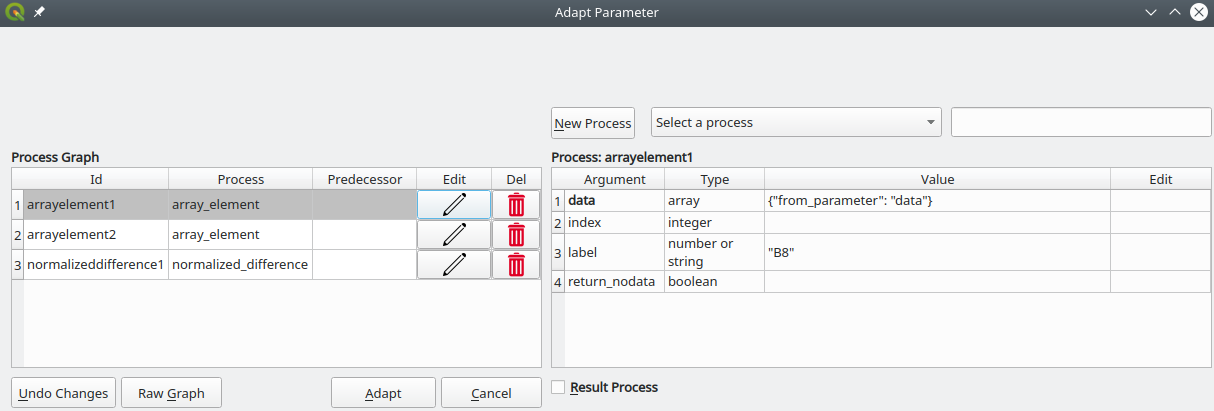
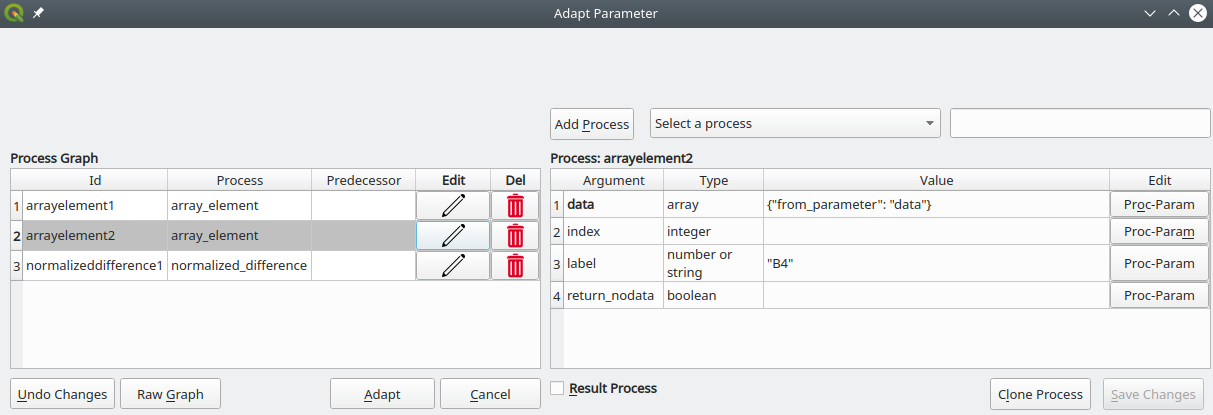
updated QGIS plugin how to for version 0.9.1

diff --git a/documentation/1.0/getting-started/qgis-plugin.md b/documentation/1.0/getting-started/qgis-plugin.md
@@ -1,23 +1,26 @@
 # QGIS Plugin
 
+The openEO QGIS plugin enables exploring openEO backends as well as execute and modify your jobs at an backend 
+within QGIS. The plugin can load the results of a job execution to the QGIS map, so that the user can make further 
+analyses and visualisation steps. 
+
 ## Installation
 
 There are two different versions of the QGIS Plugin available:
  
-1. For getting the **latest stable version**, you can use the plugin 
+1. The **latest stable version** is accessible in the plugin 
 manager of QGIS (Plugins -> Manage and Install Plugins). Note that you have to activate the option to show experimental 
 plugins (Settings -> Show also experimental plugins). After that, you can search for 
 "OpenEO", install and activate the plugin.
-2. For getting the **latest version**, you can go to the official
-[GitHub repository](https://github.com/Open-EO/openeo-qgis-plugin) and download the repository as a zip archive. 
+2. The **latest version** is accessible at the 
+[GitHub repository](https://github.com/Open-EO/openeo-qgis-plugin). First, download the repository as zip archive. 
 Now, open the plugin manager of QGIS (Plugins -> Manage and Install Plugins) and select "Install from ZIP". 
-There you can browse for the downloaded zip archive, install and activate it.   
+There you can browse for the downloaded zip archive, install and activate it.
 
-This tutorial shows the capabilities of version 0.9. Make sure you have installed at least version 0.9 by checking it in 
+This tutorial shows the capabilities of version 0.9.1. Make sure you have installed at least that version by checking in 
 the plugin manager.   
 
-After successfully finishing the installation and activation of the plugin, there should appear the openEO logo in the 
-QGIS toolbar:
+After successfully installing and activating the plugin, the openEO logo should be part of the toolbar:
 
 ![QGIS Plugin Icon](./images/qgis_button.png "Button to start the plugin")
 
@@ -25,18 +28,20 @@ Simply click on the icon to start the plugin.
 
 ## Connecting
 
-When starting the plugin, a login dialog appears. The backend dropdown menu lists the available openEO backends from 
+The first window you see when starting the plugin is a login dialog, since you can only access your jobs at the backend 
+if you are authenticated. The backend dropdown menu contains the available openEO backends from 
 the [openEO Hub](https://hub.openeo.org/). By default, the plugin chooses the latest compatible version from the 
 selected provider. If you want to connect to a specific version of a backend, you need to uncheck 
-the checkbox labeled "Only Latest versions". It is also possible to manually type a backend url into the selection 
-field, in case it is not registered at the hub yet.
+the checkbox labeled "Only Latest versions". You can also manually type a backend url into the selection 
+field, in case it is not registered at our hub yet.
  
 ![QGIS Login Dialog](./images/login_dialog.png "Login Dialog")
 
-Now that you chose your backend, you can log in with your username and password provided by the backend.
+Now that you have chosen a backend, you can log in with your username and password provided by the backend.
 Note that the QGIS plugin only supports Basic authentication and not [OpenID Connect](https://openid.net/connect/) yet. 
+Backends that do not support this authentication can not be accessed via this plugin at the moment.
 
-If logged in successfully, the main window of the plugin appears with three tabs ("Backend Info", "Jobs", "Services"). 
+If logged in successfully, the main window of the plugin appears with three tabs (**Backend Info**, **Jobs**, **Services**). 
 The following sections will go through the capabilities of these tabs. 
 
 ## Tab1: Backend Info
@@ -47,128 +52,139 @@ Next, you can choose a collection in the drop down menu to see a description of 
 
 ![QGIS Backend Info](./images/backend_info.png "Backend Info tab")
 
-On the bottom, there is a drop down menu to choose one of the available processes from the backend. 
-After selection, the parameters of the process are shown in the table below. The first column contains the 
-parameter name. The parameter name is bold if required and otherwise optional when using the process.
-Second column shows the type of the parameter and the third column a short description. 
+On the bottom, you can use the drop down menu to choose one of the available processes from the backend. 
+After selection, the parameter of the process are listed in the table below. The first column contains the 
+parameter name. The parameter name is bold if required and otherwise optional.
+Second column shows the type of the parameter (e.g. raster-cube) and the third column a short description. 
 To learn more about the process, you can click on the info button next to the drop down menu 
-(marked red in the figure below). The return type of the process is written next to the info box.
+(marked red in the figure below). The return type of the process is written next to the info box. If you want to get a
+good overview of all processes of openEO you might visit the 
+[official processes page](https://openeo.org/documentation/1.0/processes.html), but note that not all backends 
+will implement all processes listed there.
 
 ## Tab2: Jobs
 
 The "Jobs" tab lists all of your [jobs](https://openeo.org/documentation/1.0/glossary.html#data-processing-modes) 
 at the backend. In openEO a job describes what the backend needs to process 
-(e.g. defining a [process graph](https://openeo.org/documentation/1.0/glossary.html#processes)) as well as 
-additional information. The first two columns shows the title and the date and time it got created at the backend. 
-The other elements of this window are numbered at the screenshot below and described in the following list: 
+(e.g. by defining a [process graph](https://openeo.org/documentation/1.0/glossary.html#processes)) as well as 
+additional meta-information (e.g. title, creation date). The first two columns show the title and the creation date of 
+the job. The other elements of the table are numbered in the screenshot and described in the following. 
 
 ![QGIS Jobs](./images/jobs.png "Jobs tab")
 
-1. **Status** - Shows in which lifecycle state the job is in at the moment. The first status is "created", 
-if the job got just sent to the backend, but not executed yet. After the job gets executed it will be 
+1. **Status** - Shows the current lifecycle state of the job. The first status of a job is "created", 
+if it got created at the backend, but not executed yet. After the job gets executed it will be 
 "queued" if the backend plans to executes it, but has not started yet. If the execution started but hasn't finished yet, 
 it has the status of "running". Last but not least it will have either "canceled", if it was stopped during execution, 
 "finished" if the execution was successfully or "error", if an error occurred during execution.    
-2. **Execute** - By clicking on the "Play" button, the plugin will notify the backend to execute the job. 
-Already finished jobs will be executed again.
+2. **Execute** - By clicking on the "Play" button, the plugin will start the execution of the job at the backend. 
+Already finished jobs are executed again.
 3. **Display** - By clicking on the "Eye" button, the plugin downloads the resulting image of the job from the backend 
 and creates a new layer in QGIS named after the title and the creation date containing the image. Note that if the result 
 is not geo referenced, you might get a dialog from QGIS to choose a coordinate reference system.
 4. **Adapt** - By clicking on the "Pencil" button a new dialog appears, where you can adapt the job title and 
 description as well as the processes and extent of the job. How this works in detail is described in the following sections.
-5. **Information** - By clicking on the "Info" button a window with additional information on the job opens up, like a 
-description, a cost plan etc., if this information is provided by the backend.
+5. **Information** - By clicking on the "Info" button a window with additional information about the job appears.
+It contains information like a description, a cost plan etc., of course only if this information is provided by the backend.
 6. **Delete** - By clicking on the "Trash" button the job gets deleted from the backend, after being asked if you are 
-really sure to do that.
-7. **Load Job from openEO Hub** - This button opens a new window with a list of shared jobs from the openEO Hub 
+really sure about it.
+7. **Load Job from openEO Hub** - This button opens a new window with a list of shared jobs (or process graphs) from the openEO Hub 
 (see figure below). You can select one of these jobs, adapt them to your needs and create a new "duplicate" job at 
-your backend. More information on that workflow can be found in the next sections.    
+your backend. More information on how to do that can be found in the next sections.
+    
 ![QGIS openEO Hub](./images/openeohub.png "openEO Hub")
+
 8. **Create new Job** - Similar to loading a job from the Hub, you can also create a job from scratch using this button. 
 More information in the next sections.  
 9. **Create new Job in Web Editor** - This button opens the [openEO web editor](https://editor.openeo.org/) in your 
-system browser, so you can create a new job from there. This is the recommended way on creating a new job, since it has 
-a graphical and therefore more convenient way of creating a job. 
+system browser, so that you can create a new job using it. This is the recommended way for creating a new job, since it has 
+a graphical and therefore more convenient way of doing so. 
 10. **Refresh Table** - This button refreshes the list of jobs manually.
 
 ### Creating new Jobs
 
-There are four ways to create a new job using this plugin, depending on whether you want to start from scratch or just 
+There are four approaches to create a new job using this plugin, depending on whether you want to start from scratch or just 
 change existing jobs:
 
 * **From scratch with web editor** - As described in the job table overview above, there is a button (no. 9) that opens 
 your web browser with the [openEO web editor](https://editor.openeo.org/). It is the recommended way to create a new job 
 from scratch, since it has a very convenient graphical user interface. It also shows the process graph in a neat graph 
 based manner for a better understanding of how processes are connected.
-* **From scratch with QGIS** - If you are happy only using the QGIS plugin, you can create a new job using the 
-button (no. 8) of the job overview dialog. It opens the job adaption window (more details in the sections below). 
+* **From scratch with QGIS** - If you want to use the QGIS plugin, you can create a new job using the 
+button (no. 8) of the job overview dialog. It opens the job adaption window (more details in the section below). 
 In the beginning the job has already a "load_collection" process as a starting point.  
-* **From openEO Hub** - If you do want to create a new job by adapting an existing one, you can choose one from the 
-openEO Hub. The hub has a feature to share existing process graphs, which can be loaded by choosing it in a new pop 
-up dialog. Ater selecting a job and showing the process graph, the job adaption window will pop up, where you are able 
-to configure the hub job to your needs.
+* **From openEO Hub** - If you want to create a new job by adapting an existing one, one possibility is to choose one 
+from the openEO Hub. The hub has the feature to share existing process graphs, which are listed in the pop up window, so 
+that you can select one. After job selection, the job adaption window will pop up, where you are able 
+to configure the hub job to your needs (see next section).
 * **From existing Job** - Similar to loading a process graph from the openEO Hub, you can create a new job by adapting 
-one of your previously created jobs at the backend. You can e.g. create a new job with a different spatial extent, or 
-adding a few processes. To do so you need to click on the edit button in the job overview window (no. 4)
+one of your existing jobs at the backend. You can e.g. create a new job with a different spatial extent, or 
+adding a few processes to the original one. To do so, you need to click on the edit button in the job overview window (no. 4)
 
 ### Adapting existing Jobs
 
-In this section you get an overview of the job adaption dialog and how you can create new jobs either by changing 
-existing ones or by creating new ones.
+In this section you'll get an overview of the job adaption workflow using the job adaption window. 
+How you get there was described in the previous section.
 
 ![QGIS Adapting Job](./images/adapt_job.png "Adapting job window")
 
-1. **Job Title** - Here you can put in your title of the job, it should be a name that makes you identify the job in a 
-list.
-2. **Job Description** - You can describe the job in more detail in this field. 
-3. **Process Graph Table** - In the process graph table you can see the list of all processes executed by the job. 
+1. **Job Title** - Here you can write the title of the job. It is recommended to choose it in a way that 
+makes you identify the job in a list more easily.
+2. **Job Description** - You can describe the job in more detail in this field (e.g. what is calculated and how). 
+3. **Process Graph Table** - In the process graph table you can see a list of all processes used by the job. 
 The first column contains the identifier of the process node, so a unique identifier of the process throughout the 
-whole process graph (e.g. loadcollection1). Most openEO clients generate these identifiers automatically. 
+whole process graph (e.g. loadcollection1). Most openEO clients generate these identifiers automatically. We define a 
+process node (or just node) as one element of the process graph, so one executed process.  
 In the second column you can see the name/identifier of the process (e.g. load_collection), which needs to be one of the 
-processes that the backend provides. The third column shows the node identifier of the predecessor node 
-In example "loadcollection1" in the second row means that the output of the node with id "loadcollection1" is the input 
+processes that the backend provides. The third column shows the node identifier of the predecessor node. 
+For example, "loadcollection1" in the second row means that the output of the node with id "loadcollection1" is the input 
 of the node with id "reducedimension1".
 4. **Process Edit** - When pressing on the "pencil" button, the process of the same row is loaded into the process 
-table on the right (see no. 6). On this table you can adapt the arguments of the chosen process.
+table on the right (see no. 6). On this table you can adapt the arguments of the chosen process and therefore configure 
+its behaviour.
 5. **Delete Process** - Clicking on the "trash" button deletes the selected process from the process graph. 
 Note that other processes, which have this process as predecessor might fail after the deletion.
 6. **Process Table** - In this table you see all arguments of the currently selected process, the expected type and 
 the current value. If the name of the argument is bold, it is a required argument, hence it must be set. 
-You can edit the values of the arguments directly in the text field of the value column. Some arguments have a helper 
-function in the fourth column of the process table (e.g. drop down menu of all available collections in the first row)
+You can edit the values of the arguments directly in the text field of the value column. For some arguments the plugin 
+provides helper function in the fourth column of the process table (e.g. drop down menu of all available collections in 
+the first row)
 7. **Process Argument Helper** - For some arguments of a process, the QGIS Plugin provides helper functions to make the 
-adaption of the arguments easier. This is the case, every time the field of the fourth column of the process table is 
+adaption of the arguments easier. This is the case, if the field of the fourth column in the process table is 
 not empty.
 8. **Add Process** - If you want to add a new process to the process graph you can select one with the drop down menu 
 (see "Select a process") and press the button labeled "Add Process". The text field on the right will be the new node id 
-and it is autogenerated after selecting a process, but can also be chosen by typing something different into it. Note 
-that it has to be unique within the jobs process graph, otherwise the QGIS will show an error message.
+and it is autogenerated after selecting a process, but can also be manually defined by typing it into the text field. Note 
+that it has to be unique within the job, otherwise the plugin shows an error message.
 9. **Undo Changes** - Press this button if you want to undo all changes that you did on the job.  
-10. **Raw Graph** - Press this button to see the raw process graph in a pop up window in JSON format. There you can also 
-paste a process graph to load it into the QGIS plugin (e.g. pressing "Apply").
+10. **Raw Graph** - Press this button to see the raw process graph (JSON format) in a pop up window. Changes to the 
+process graph are also applied if you click "Apply". Therefore, you can also copy and paste here a complete process graph  
+into the QGIS plugin.
 11. **Send Job** - Press this button if you are finished editing the job and you want to create it at the backend. 
-If nothing went wrong during the job creation, it will close the adaption window and show an error message otherwise.
+If nothing went wrong during the job creation, it will close the adaption window, otherwise it shows an error message.
 12. **Cancel** - Press this button to close the job adaption dialog with none of your changes taking effect.
 13. **Result Process** - This checkbox needs to be checked on the last process of the process graph. It tells the 
 backend that the result of the checked process is the output of the job (usually a "save_result" process). Note that 
-only one process of the process graph can be checked as a result. 
+only one process of the process graph can be a result node. 
 14. **Clone Process** - When clicking on this button, a clone of the currently selected node gets created and loaded 
-into the process table on the right. Note that clicking on this button does not add it to the process graph, you need to 
-press on the "Add Process" button.
+into the process table on the right. Note that clicking on this button does not add it to the job already, so you need to 
+press on the "Add Process" button to do so.
 15. **Save Changes** - Changes on the process arguments are not stored in the process graph until this button is pressed.
 You can see if there are unsaved changes if this button is enabled (see screenshot "Clone Process" button), otherwise it 
 is disabled (see screenshot). 
 #### Process Argument Helper
 
-For some process arguments the QGIS plugin provides helper functions for more convenient editing. 
-This section provides a list of all available helper functions and how to use them:
+For some process arguments the QGIS plugin provides helper functions for a more convenient editing. 
+This section provides a list of the available helper functions and how to use them:
 
 * **Collection Id** - Whenever an argument expects a collection id (e.g. "load_collection" process), the plugin shows a 
-drop down menu with all available collections of the backend. There you can just select the one you want to use and it 
-will be put into the arguments value.
+drop down menu with all available collections of the backend. There you can select one and it will be put into the 
+arguments value.
 * **Spatial Extent** - Edit buttons of arguments which expect a spatial extent (e.g. geojson, bounding-box) open a
 spatial extent dialog:
+
 ![QGIS Edit spatial](./images/edit_spatial.png "Editing spatial extent")
+
 On the bottom you can edit the spatial extent manually in the text box. In the drop down menu on the top you can choose 
 how to select the spatial extent. You can get the extent of the current layer, the extent of a shape file, the extent of 
 the current QGIS map canvas, by drawing a rectangle on the QGIS map canvas or by drawing a polygon on the QGIS map 
@@ -176,39 +192,58 @@ canvas. The drawings start after clicking on the "Draw Extent" button, so that y
 the map. After pressing the "OK" button, the extent string in the text field is set to the process argument and the 
 window closes. 
 * **Temporal Extent** - If an argument expects a start and end date, the edit button opens a calendar dialog:
+
 ![QGIS Edit temporal](./images/edit_temporal.png "Editing temporal extent")
+
 The left calendar sets the start date and the right calendar the end date.
 * **Band selection** - If an argument expects a selection of bands, the edit button opens the following dialog to choose 
-from the bands available at the selected collection:
+from the bands available at the selected collection. Note that it always lists all bands of the collection even if some 
+bands are filtered by previous processes and therefore not available in the datacube anymore. 
+
 ![QGIS Edit band selection](./images/edit_bands.png "Editing band selection")
+
 * **Process Graph Node** - If an argument expects a raster data cube, a drop down menu will appear on the edit column. 
 There you can choose from existing process graph nodes (e.g. "loadcollection1") It uses the output of the given node 
 identifier as input of the process argument.
 * **Sub Process Graph** - Some processes need a whole (sub-)process graph as input value (e.g. apply or reduce 
 processes). When clicking on the edit button, the plugin opens a new adaption window, which looks similar to the job 
 adaption window, but shows the sub process graph:
+
 ![QGIS Edit sub process graph](./images/edit_subpg.png "Editing sub process graph")
+
 In this window you can adapt the sub process graph in the same way as the original process graph. After pressing on 
-"Adapt", the changes are written to the original job. Note that the sub process graph also needs to have at least one 
-result process.
+"Adapt", the changes are written to the original job. Process arguments, which do not have special editing fields,
+have a "Proc-Param" button. If pressed it will forward the input data of the parent node 
+(so the one with the subgraph as attribute) to the selected argument (see screenshot "data" argument). Note that the 
+sub process graph also needs to have at least one result node.
 
 ## Tab3: Services
 The "Services" tab lists all of your [secondary web services](https://openeo.org/documentation/1.0/glossary.html#data-processing-modes) 
 at the backend. In openEO a secondary service has a process graph like a job, but depending on the service type it is 
 possible for the user to change the viewing extent dynamically. The first two columns shows the title, the description 
 and the date and time it got created at the backend. 
-The other elements of this window are numbered at the screenshot below and described in the following list: 
+The other elements of this window are numbered at the screenshot below and described in the following. 
+
 ![QGIS Services](./images/services.png "Services")
 
-1. **Display** - When clicking on the "Eye", the secondary service gets loaded and creates a new layer, named afte the 
-service. QGIS now loads the result of the processing into the current extent of the QGIS map canvas. Note that it will 
+1. **Display** - When clicking on the "Eye", the secondary service gets loaded into a new QGIS layer, named after the 
+service. QGIS now fetches the result of the processing into the current extent of the QGIS map canvas. Note that it will 
 load the whole screen at once, so it might take a while.
-2. **Information** - Clicking on the Infobox, shows some additional information about the service.
+2. **Information** - Clicking on the Infobox, shows detailed information about the service.
 3. **Delete** - Clicking on the delete button removes the service from the backend.
-4. **Refresh Table** - This button refreshes the list of services manually.
+4. **Create from job** - By clicking on this button you can create a new service from one of your jobs. It will create a 
+service with the same process graph as the selected job, but the extent will be dynamically loaded via the service. By 
+clicking on the button a new dialog pops up:
 
-Note that with the QGIS plugin it is currently not possible to create or adapt services. 
-Hence, use the [openEO web editor](https://editor.openeo.org/) for that purpose.
+![QGIS Create Services from job](./images/services_create.png "Create Services from job window")
+
+On the creation dialog you can set a title and a description text, but they are optional. But, you have to select a job and 
+choose a type of secondary service. The drop down menu of the service types contains only the ones supported by your 
+backend. By clicking on "Create Service" the plugin creates the service on the backend, so you should be able to see it 
+on the table. Not that the list of jobs contains only successfully executed jobs (e.g. with "finished" status). 
+5. **Create from web editor** - Similarly to the job table overview, this button opens your web browser with 
+the [openEO web editor](https://editor.openeo.org/). There you can create new services via the editor or from your jobs.
+6. **Refresh Table** - This button refreshes the list of services manually.
 
 [//]: <> (## Example Job Adaption To Do: Create Youtube Walk-Through)
 
